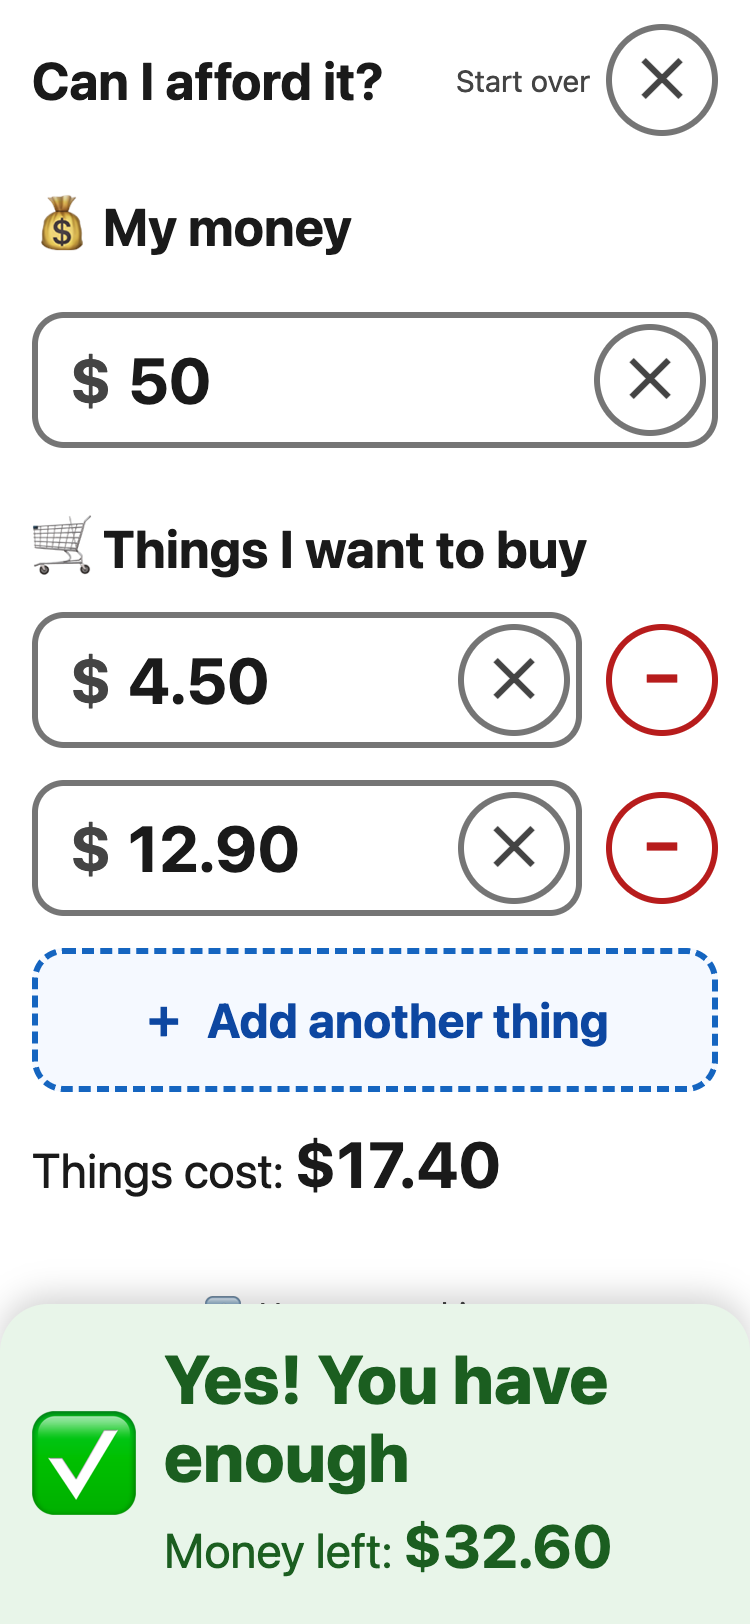
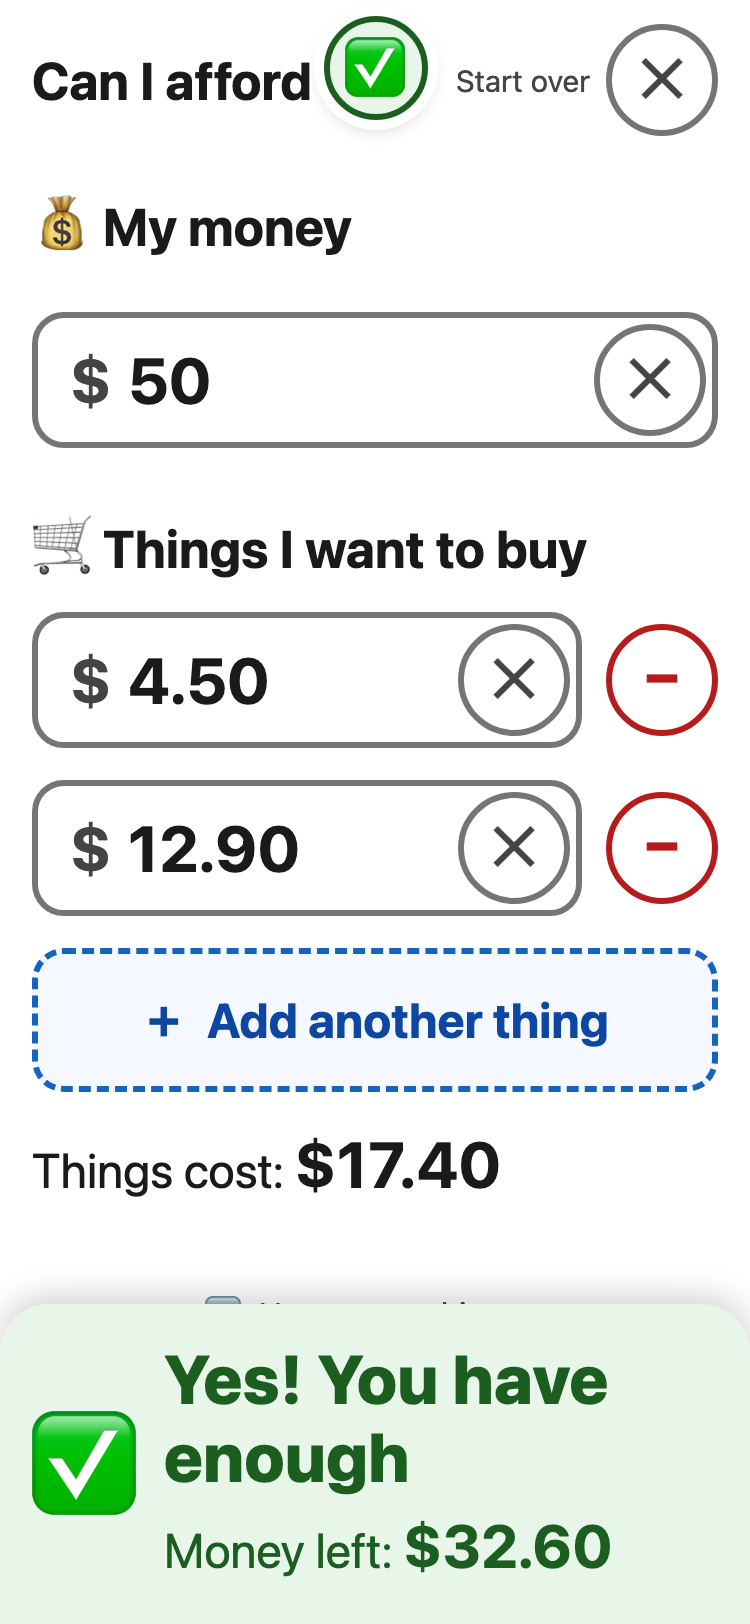
docs: strengthen cache-bump reminder; refresh guide screenshots
- README now states as a pre-merge checklist item: bump public/sw.js's
  CACHE before pushing any change touching public/, since the service
  worker is cache-first and installed clients won't see new files
  otherwise (missed this on the previous merge)
- Regenerate screen-yes.png and screen-no.png to show the floating
  verdict badge added at the top of the header, using the exact same
  money/item scenarios as the images they replace
- Bump CACHE since these two guide images are precached assets

Changed region(s): [[0.4293, 0.0, 0.5827, 0.0924]]

diff --git a/public/sw.js b/public/sw.js
@@ -2,7 +2,7 @@
 // launch picks up new files; firebase.json serves this file with no-cache.
 // "/guide" (not "/guide.html"): Hosting cleanUrls 301s the .html form, and a
 // cached redirected response breaks offline navigations.
-const CACHE = "afford-v21";
+const CACHE = "afford-v22";
 const ASSETS = [
   "/",
   "/index.html",

diff --git a/README.md b/README.md
@@ -85,8 +85,13 @@ account and the secret is:
    (or create the service account manually in Google Cloud IAM and paste
    its JSON key into the secret).
 
-When releasing a new version, bump the `CACHE` version string in
-`public/sw.js` so installed apps pick up the new files on next launch.
+**Before merging any change to `main`**, check whether `CACHE` in
+`public/sw.js` needs bumping. The service worker is cache-first: without a new
+`CACHE` string, already-installed apps keep serving the old HTML/CSS/JS
+indefinitely after deploy, even though the raw files on the server are new.
+Bump it for any change to `public/` — HTML, CSS, JS, or a precached image —
+skip it only for changes that don't touch `public/` at all (e.g. `README.md`,
+`tools/`).
 
 ## Sharing
 
